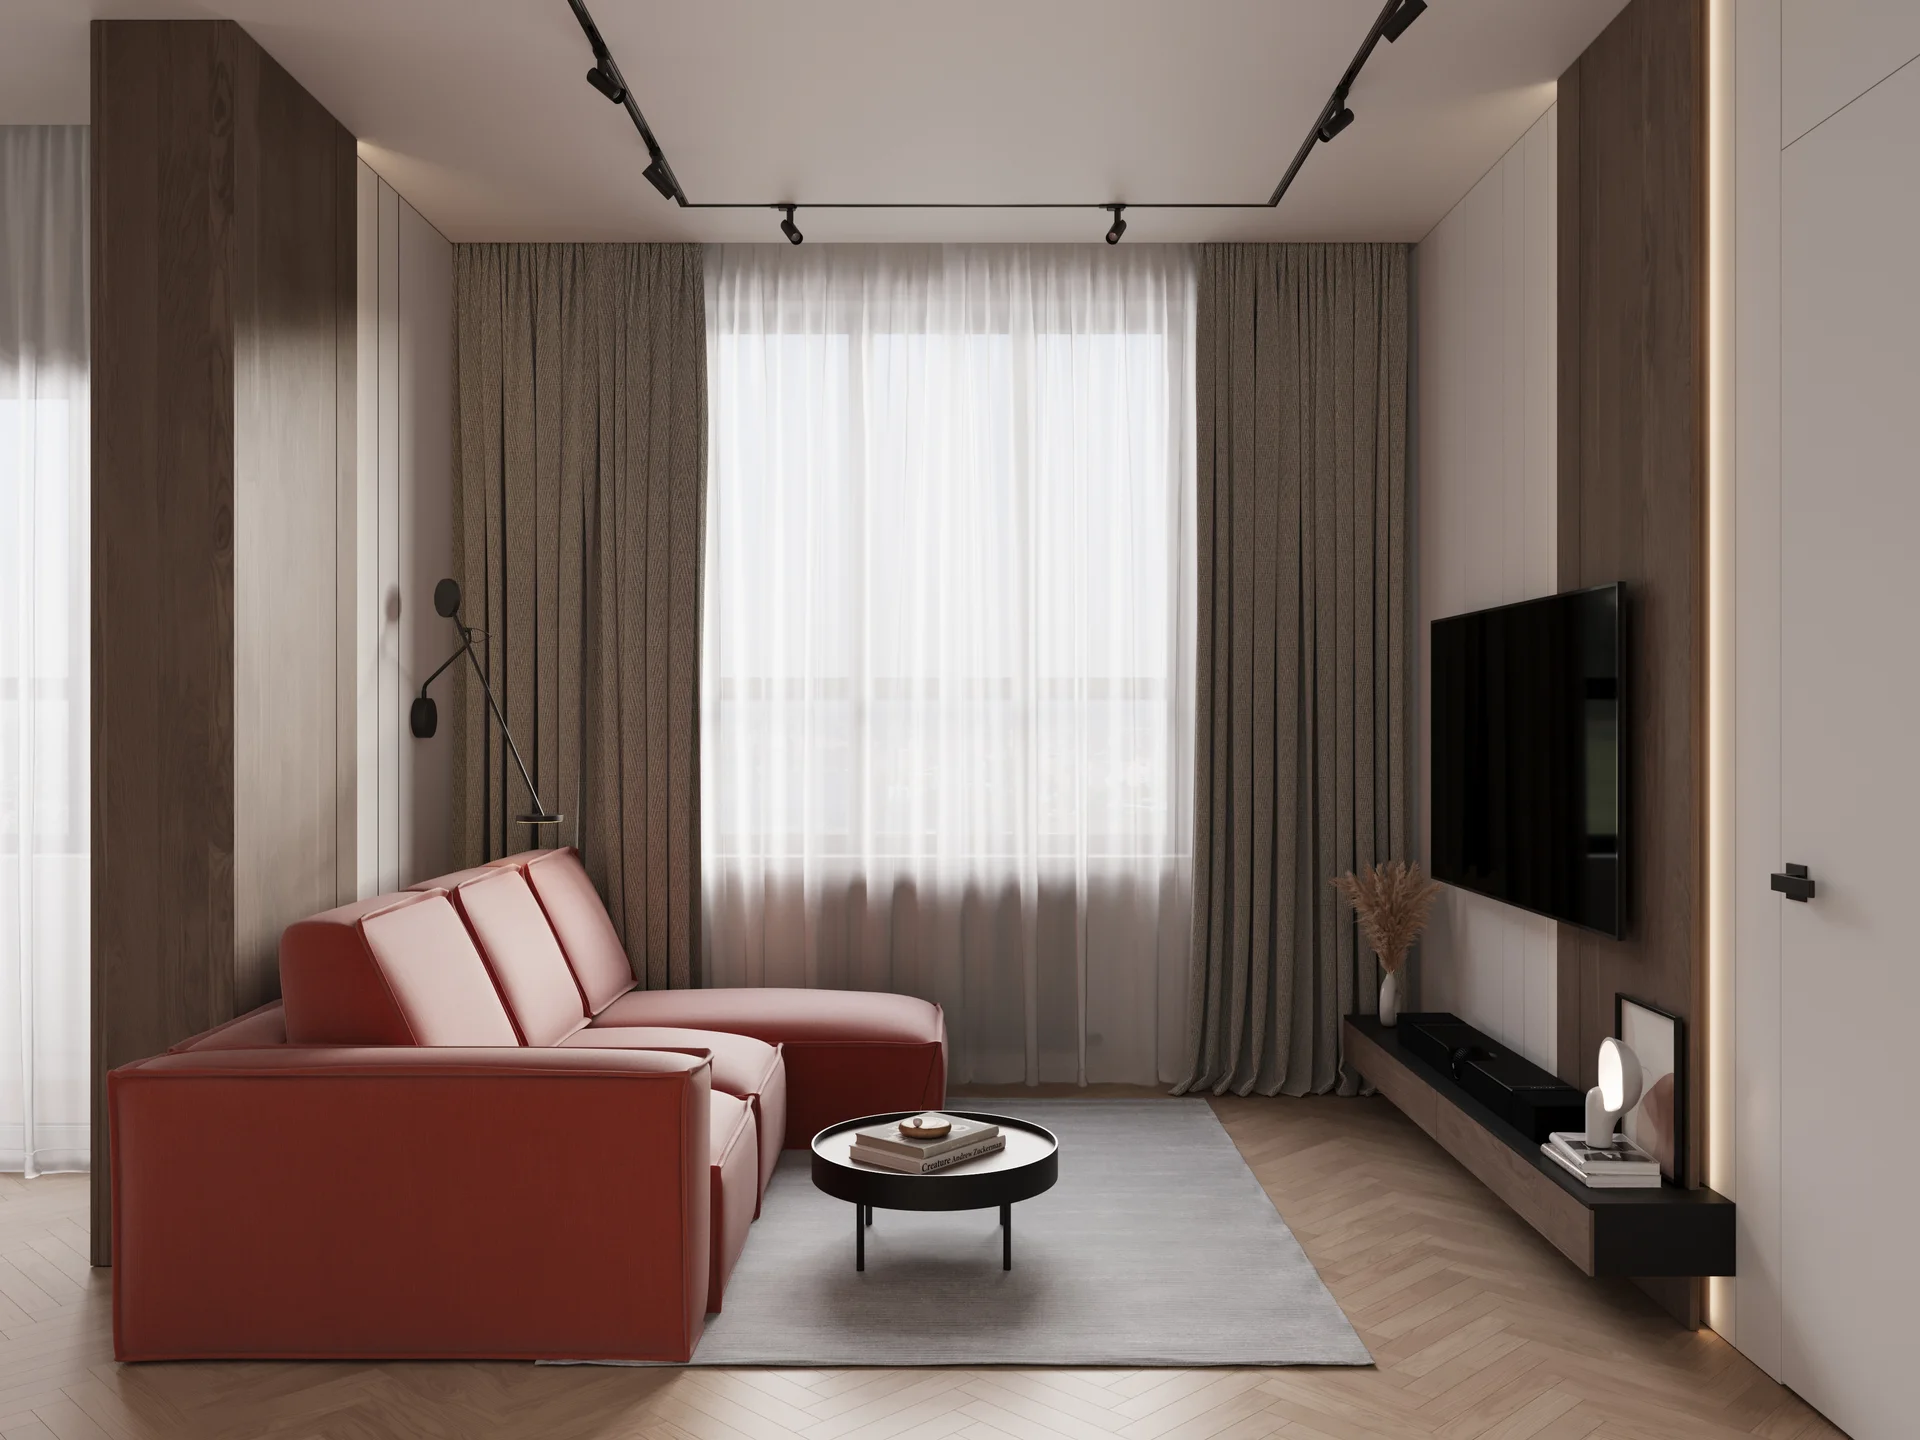
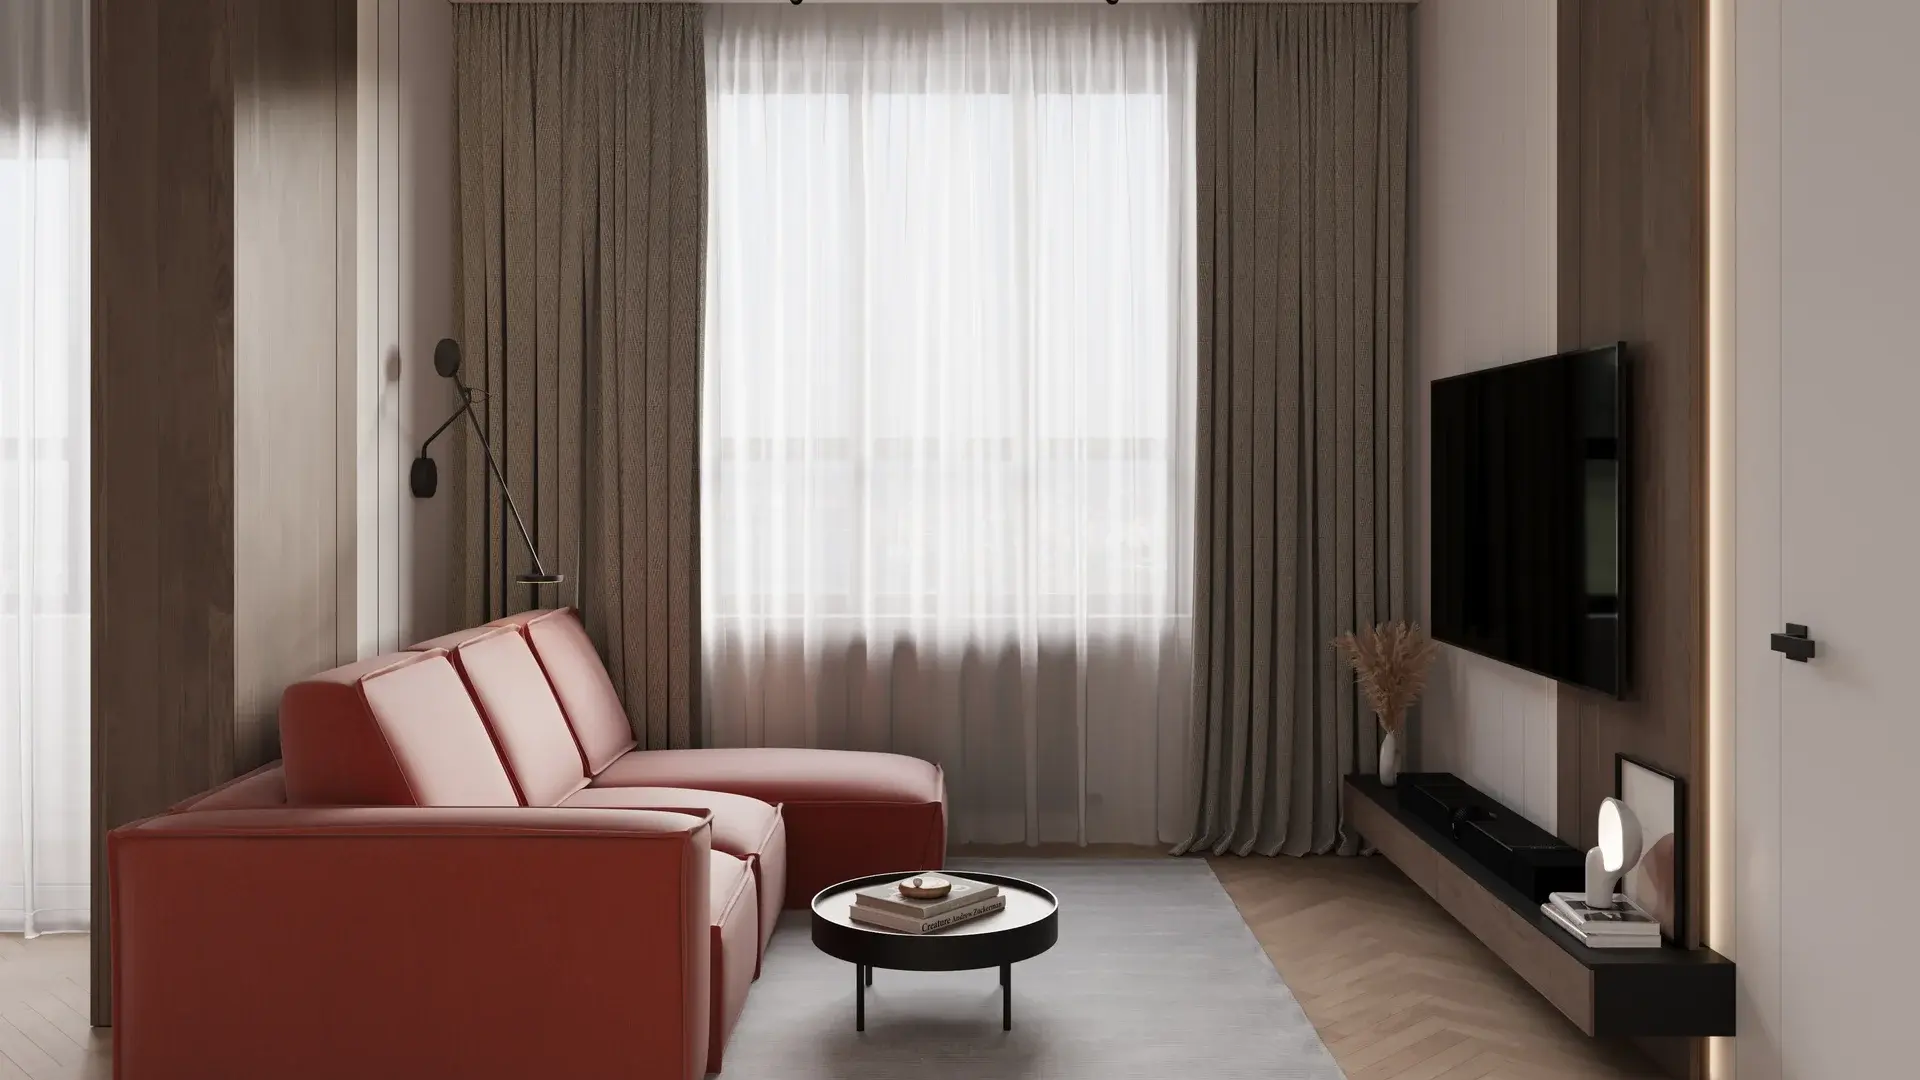
deploy: a18f696508ac74bc1845161f33fc9c9d0f8478a4

diff --git a/main.css b/main.css
@@ -168,7 +168,7 @@ header .header-wrapper .info-block .phone-mobile {
   border-top-right-radius: var(--section-radius);
 }
 .section-background > img {
-  height: auto;
+  height: 100%;
   width: auto;
   position: absolute;
   top: 50%;
@@ -425,7 +425,7 @@ header .header-wrapper .logo-main {
 }
 .section-background .swiper-slide > img {
   width: auto;
-  height: auto;
+  height: 100%;
   position: absolute;
   top: 50%;
   left: 50%;
@@ -816,8 +816,6 @@ footer {
   .section-background > img {
     width: 100%;
     height: auto;
-    transform: translate(-50%, -50%);
-    transform-origin: top;
   }
   .section-background .swiper-slide > img {
     width: 100%;
